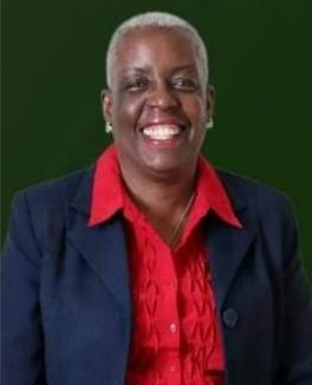
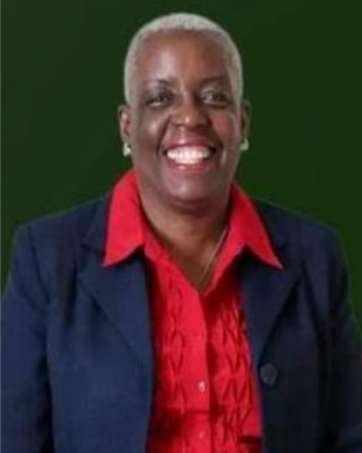
Update

diff --git a/about.html b/about.html
@@ -622,7 +622,7 @@ Our Mission And Objectives are to advocate and provide programs and opportunitie
             <div class="col-lg-3 col-md-6 wow fadeInUp" data-wow-delay="0.1s">
                 <div class="team-item position-relative rounded overflow-hidden">
                     <div class="overflow-hidden">
-                        <img class="img-fluid" src="img/team18.jpeg" alt="">
+                        <img class="img-fluid" src="img/team18.png" alt="">
                     </div>
                     <div class="team-text bg-light text-center p-4">
                         <h5>Ms. Odell Cole </h5>
@@ -653,19 +653,21 @@ Our Mission And Objectives are to advocate and provide programs and opportunitie
                 </div>
             </div>
 
-            <div class="col-lg-3 col-md-6 wow fadeInUp" data-wow-delay="0.5s">
+
+
+           <div class="col-lg-3 col-md-6 wow fadeInUp" data-wow-delay="0.5s">
                 <div class="team-item position-relative rounded overflow-hidden">
                     <div class="overflow-hidden">
-                        <img class="img-fluid" src="img/team-3.pmng" alt="">
+                        <img class="img-fluid" src="img/team52-2.png" alt="">
                     </div>
                     <div class="team-text bg-light text-center p-4">
-                        <!-- <h5>VICTOR OMONDI</h5> -->
-                        <!-- <p class="text-primary">GRAPHIC DESIGNER</p> -->
-                        <!-- <div class="team-social text-center"> -->
-                            <!-- <a class="btn btn-square" href=""><i class="fab fa-facebook-f"></i></a>
+                        <h5>Dr.Emmanuel A.Ezekiel </h5>
+                        <p class="text-primary">Managing Director- Malawi</p> 
+                        <div class="team-social text-center"> 
+                            <a class="btn btn-square" href=""><i class="fab fa-facebook-f"></i></a>
                             <a class="btn btn-square" href=""><i class="fab fa-twitter"></i></a>
-                            <a class="btn btn-square" href=""><i class="fab fa-instagram"></i></a> -->
-                        <!-- </div> -->
+                            <a class="btn btn-square" href=""><i class="fab fa-instagram"></i></a> 
+                         </div> 
                     </div>
                 </div>
             </div>

diff --git a/index.html b/index.html
@@ -662,7 +662,7 @@ Our Mission And Objectives are to advocate and provide programs and opportunitie
             <div class="col-lg-3 col-md-6 wow fadeInUp" data-wow-delay="0.1s">
                 <div class="team-item position-relative rounded overflow-hidden">
                     <div class="overflow-hidden">
-                        <img class="img-fluid" src="img/team18.jpeg" alt="">
+                        <img class="img-fluid" src="img/team18.png" alt="">
                     </div>
                     <div class="team-text bg-light text-center p-4">
                         <h5>Ms. Odell Cole </h5>
@@ -696,16 +696,16 @@ Our Mission And Objectives are to advocate and provide programs and opportunitie
             <div class="col-lg-3 col-md-6 wow fadeInUp" data-wow-delay="0.5s">
                 <div class="team-item position-relative rounded overflow-hidden">
                     <div class="overflow-hidden">
-                        <img class="img-fluid" src="img/team-3.pmng" alt="">
+                        <img class="img-fluid" src="img/team52-2.png" alt="">
                     </div>
                     <div class="team-text bg-light text-center p-4">
-                        <!-- <h5>VICTOR OMONDI</h5> -->
-                        <!-- <p class="text-primary">GRAPHIC DESIGNER</p> -->
-                        <!-- <div class="team-social text-center"> -->
-                            <!-- <a class="btn btn-square" href=""><i class="fab fa-facebook-f"></i></a>
+                        <h5>Dr.Emmanuel A.Ezekiel </h5>
+                        <p class="text-primary">Managing Director- Malawi</p> 
+                        <div class="team-social text-center"> 
+                            <a class="btn btn-square" href=""><i class="fab fa-facebook-f"></i></a>
                             <a class="btn btn-square" href=""><i class="fab fa-twitter"></i></a>
-                            <a class="btn btn-square" href=""><i class="fab fa-instagram"></i></a> -->
-                        <!-- </div> -->
+                            <a class="btn btn-square" href=""><i class="fab fa-instagram"></i></a> 
+                         </div> 
                     </div>
                 </div>
             </div>

diff --git a/team.html b/team.html
@@ -277,7 +277,7 @@
             <div class="col-lg-3 col-md-6 wow fadeInUp" data-wow-delay="0.1s">
                 <div class="team-item position-relative rounded overflow-hidden">
                     <div class="overflow-hidden">
-                        <img class="img-fluid" src="img/team18.jpeg" alt="">
+                        <img class="img-fluid" src="img/team18.png" alt="">
                     </div>
                     <div class="team-text bg-light text-center p-4">
                         <h5>Ms. Odell Cole </h5>
@@ -311,16 +311,16 @@
             <div class="col-lg-3 col-md-6 wow fadeInUp" data-wow-delay="0.5s">
                 <div class="team-item position-relative rounded overflow-hidden">
                     <div class="overflow-hidden">
-                        <img class="img-fluid" src="img/team-3.pmng" alt="">
+                        <img class="img-fluid" src="img/team52-2.png" alt="">
                     </div>
                     <div class="team-text bg-light text-center p-4">
-                        <!-- <h5>VICTOR OMONDI</h5> -->
-                        <!-- <p class="text-primary">GRAPHIC DESIGNER</p> -->
-                        <!-- <div class="team-social text-center"> -->
-                            <!-- <a class="btn btn-square" href=""><i class="fab fa-facebook-f"></i></a>
+                        <h5>Dr.Emmanuel A.Ezekiel </h5>
+                        <p class="text-primary">Managing Director- Malawi</p> 
+                        <div class="team-social text-center"> 
+                            <a class="btn btn-square" href=""><i class="fab fa-facebook-f"></i></a>
                             <a class="btn btn-square" href=""><i class="fab fa-twitter"></i></a>
-                            <a class="btn btn-square" href=""><i class="fab fa-instagram"></i></a> -->
-                        <!-- </div> -->
+                            <a class="btn btn-square" href=""><i class="fab fa-instagram"></i></a> 
+                         </div> 
                     </div>
                 </div>
             </div>
